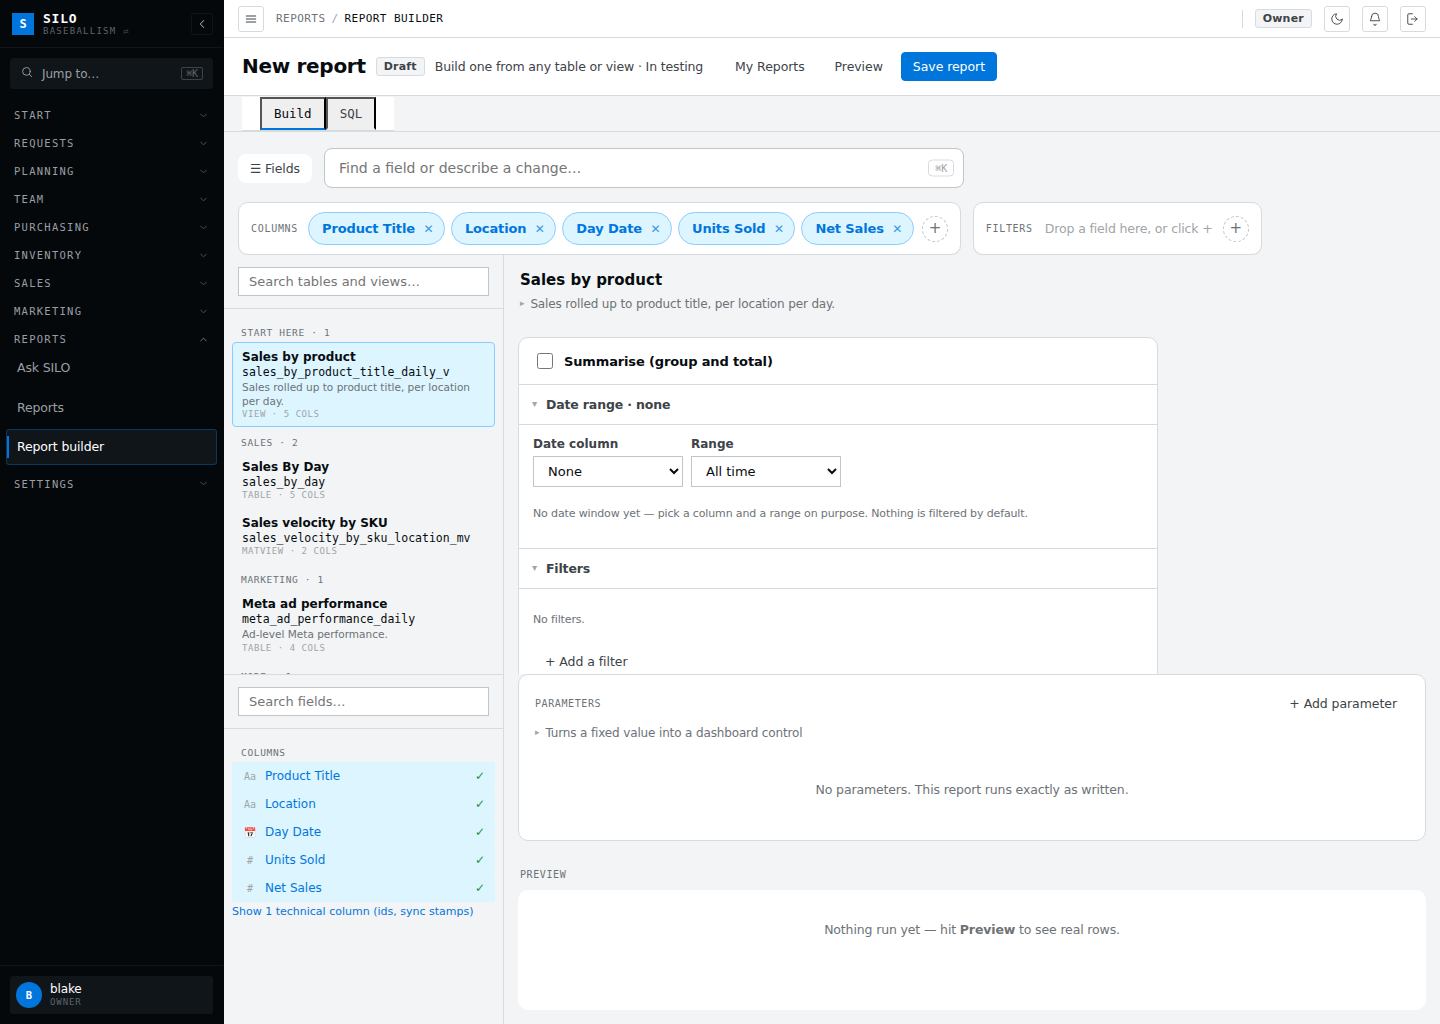
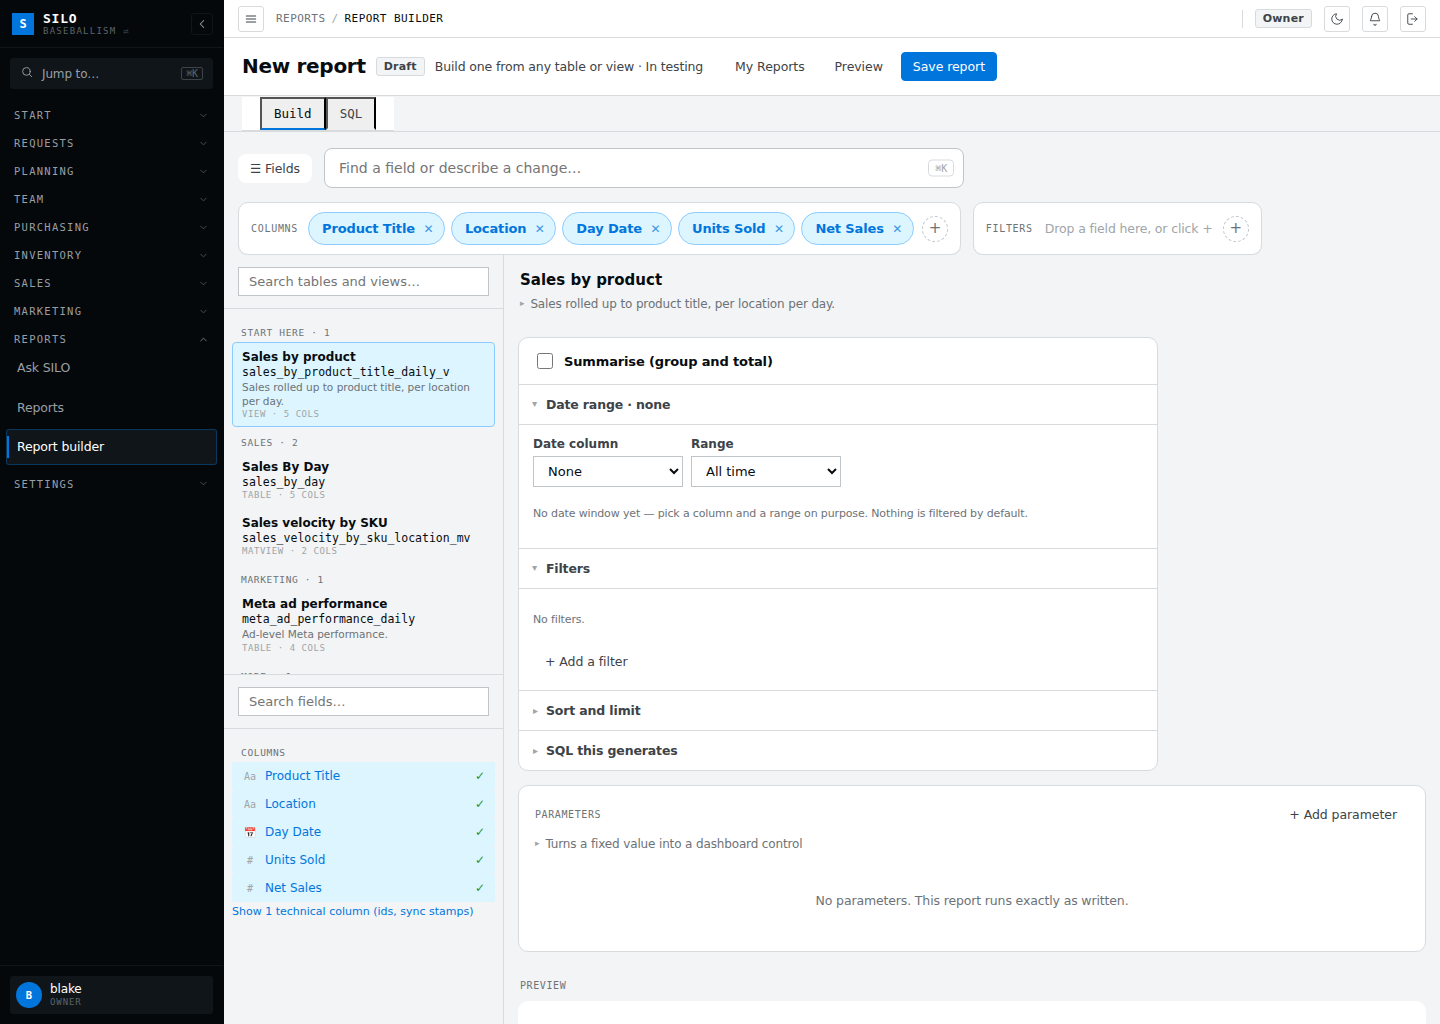
Report builder: fix three real layout bugs found from live screenshot
The user sent back a screenshot of the actual running page (not a mockup)
with a broken-looking area circled: a "+ Add a filter" button floating
with no visible header, a stray cut-off word, then Parameters immediately
below with no transition. Reproduced and confirmed all three causes
against the live page before fixing -- none of this was inferred from the
picture alone.

1. A <details> section never closed once it had ever opened empty.
   renderBuild() tracked "did the user open this" with a 'toggle' event
   listener, but Chromium fires a synthetic 'toggle' the instant a
   freshly-rendered <details open> is inserted -- confirmed with a
   page-level listener that caught two firing on the very first render,
   before any click happened. secDate/secFilters/secMeasures got
   permanently stuck open the first time each was empty, stacking three-
   plus open editors into one very tall panel. Fixed by tracking a real
   click on <summary> instead of the 'toggle' event.

2. .rb-panes lost a flex-shrink fight the moment Preview held a real
   chart+table. It had flex:1 with a 0% basis while .rb-params/.rb-preview
   sized by their own content as ordinary siblings -- confirmed by
   measuring .rb-panes' computed height before/after Preview rendered
   (419px -> 111px, no user action in between). Flexbox's shrink algorithm
   gave the siblings their full height and left .rb-panes a ~110px sliver
   showing one random fragment of whichever editor the leftover scroll
[…]

diff --git a/v3/dashboard.css b/v3/dashboard.css
@@ -442,8 +442,20 @@
   color: var(--bcn-ink-3); padding: 10px 9px 4px;
 }
 
-.rb-main { flex: 1; min-width: 0; display: flex; flex-direction: column; min-height: 0; }
-.rb-panes { flex: 1; min-height: 0; overflow-y: auto; padding: 14px; background: var(--bcn-sunken); display: flex; flex-direction: column; gap: 14px; }
+/* .rb-main owns the ONE scrollbar for everything to its right of the rail
+   -- Build/SQL, the stale bar, Parameters and Preview all flow as one
+   continuous column. It used to split that scroll: .rb-panes had its own
+   flex:1/overflow-y so the chip bar stayed put while Build/SQL scrolled
+   underneath, but that put .rb-panes (flex-basis 0%) in a shrink contest
+   against Params and Preview (both sized by their own content) -- the
+   moment Preview held a real chart+table, flexbox's shrink algorithm
+   handed Preview and Params their full content height and left .rb-panes
+   a ~110px sliver, showing one random cut-off fragment of whichever editor
+   the scroll happened to be sitting on. One scroll owner removes the
+   contest entirely: every section renders at its natural height, in order,
+   and nothing is ever squeezed to near-nothing to make room for a sibling. */
+.rb-main { flex: 1; min-width: 0; display: flex; flex-direction: column; min-height: 0; overflow-y: auto; }
+.rb-panes { padding: 14px; background: var(--bcn-sunken); display: flex; flex-direction: column; gap: 14px; }
 .rb-pane[hidden] { display: none !important; }
 
 .rb-section { display: flex; flex-direction: column; gap: 8px; }
@@ -525,7 +537,11 @@
    settle to their compact resting size (42% was sized for the old always-
    open Build form, which left far less room to hand over). */
 .rb-preview {
-  flex-shrink: 0; max-height: 62%; display: flex; flex-direction: column;
+  /* No percentage cap any more -- .rb-main scrolls as a whole now, so
+     Preview does not need to fit inside a fraction of a fixed-height
+     sibling. It renders at its natural (chart + table) height, same as
+     Build and Params above it. */
+  display: flex; flex-direction: column;
   background: var(--bcn-sunken); padding: 0 14px 14px;
 }
 .rb-preview-head {
@@ -541,7 +557,12 @@
    stacked rather than one continuous preview; spacing (rb-preview-chart's
    own margin-bottom) is what separates them instead. */
 .rb-preview-body {
-  flex: 1; min-height: 120px; overflow: auto; padding: 4px 4px 14px;
+  /* max-height, not flex:1 -- .rb-preview no longer has a bounded height for
+     flex:1 to divide up, so an unbounded table would just grow the whole
+     page to fit every row instead of scrolling in place. A capped height
+     keeps a long result set's own scrollbar without reviving the squeeze
+     .rb-main's single scroll was built to remove. */
+  max-height: 420px; min-height: 120px; overflow: auto; padding: 4px 4px 14px;
   background: var(--bcn-surface); border-radius: 10px;
 }
 .rb-preview-more { display: flex; align-items: center; gap: 10px; padding: 10px 0 2px; }
@@ -1001,6 +1022,24 @@
   .rb-chipbar { padding: 8px 12px; }
   .rb-toolbar { padding: 8px 12px; flex-wrap: wrap; }
   .rb-cmd { max-width: none; order: 1; flex-basis: 100%; }
+
+  /* .rb-rail keeps flex-shrink: 0 at every width (a source list that shrinks
+     to nothing is worse than one that takes its full height) -- on desktop
+     that is a non-issue since .rb-rail sits beside .rb-main in a ROW, but
+     stacked in a COLUMN here, the rail's ~570px (source list + field
+     browser, each capped at 260px) is taller than .rb-layout's own budget
+     at a phone's viewport height. .rb-layout and .rb-main both carry
+     min-height: 0 from the desktop rules specifically so they CAN shrink to
+     fit a fixed-height row layout -- at this breakpoint that lets flexbox
+     crush .rb-main to 0px instead of ever asking its ancestor to scroll:
+     confirmed by measuring it directly (0×0, with every Build control
+     rendered outside its own clipped box and unreachable). Restoring the
+     automatic (content-based) minimum here means .rb-layout can't be
+     squeezed smaller than the rail genuinely needs, so the resulting
+     overflow reaches .silo-main -- which already scrolls the whole page
+     (v2/beacon.css's own overflow-y: auto) -- instead of a zero-height
+     scrollport nothing can ever be scrolled into. */
+  .rb-layout, .rb-main { min-height: auto; }
 }
 
 /* ── Query picker badges ──────────────────────────────────────────────

diff --git a/v3/js/report-builder-ui.js b/v3/js/report-builder-ui.js
@@ -313,12 +313,22 @@
           </div>
         </details>
       </div>`;
-    // toggle does not reliably bubble, so each <details> gets its own
-    // listener rather than one delegated on #buildBody -- there are at
-    // most six of these, so the cost of re-attaching every render is nothing.
+    // A real click on <summary> -- not the 'toggle' event -- is what marks a
+    // section manually opened. Chromium fires a synthetic 'toggle' the
+    // instant a freshly-parsed <details open> is inserted (confirmed via a
+    // page-level listener: picking a source alone fired two of them, one per
+    // <details> rendered open because it started empty). A 'toggle' listener
+    // read that as the user opening it and never let secOpen's emptyCondition
+    // close it again -- secDate, secFilters and secMeasures all got stuck
+    // open forever after their first empty render, stacking into one long,
+    // disorienting panel. A click listener on <summary> only fires on actual
+    // user interaction, and runs before the browser's default action applies
+    // the new open state, so `!d.open` here is reliably the state BEFORE
+    // this click takes effect.
     el('buildBody').querySelectorAll('details.rb-editor[id]').forEach((d) => {
-      d.addEventListener('toggle', () => {
-        if (d.open) secManualOpen.add(d.id); else secManualOpen.delete(d.id);
+      const summary = d.querySelector(':scope > summary');
+      summary?.addEventListener('click', () => {
+        if (!d.open) secManualOpen.add(d.id); else secManualOpen.delete(d.id);
       });
     });
     renderChipBar();

diff --git a/docs/ops/screenshots/report-builder-ux/README.md b/docs/ops/screenshots/report-builder-ux/README.md
@@ -9,7 +9,7 @@ grouped by product title, summed to Net Sales — rendered by the real
 `/v3/report-builder.html` against the test suite's stubbed Supabase. No real
 company data is in any of them; the two rows in the preview are fixture rows.
 
-This went through four passes, each landing after the previous one was
+This went through five passes, each landing after the previous one was
 reviewed and found wanting. Recorded here rather than squashed away, because
 "what did we already try and why wasn't it enough" is exactly the thing a
 screenshot folder should answer a year from now.
@@ -17,17 +17,24 @@ screenshot folder should answer a year from now.
 | File | What it shows |
 |---|---|
 | `before-desktop.png` | origin/main. One always-open form: a raw relname list with no grouping beyond kind, a field cloud with a `text`/`numeric`/`bigint` badge on every row, every measure/filter row always expanded, and — a bug this PR also fixes — a measure row whose `select`s each claimed the full row width and wrapped onto five stacked lines instead of one. Everything flush against hairline borders, no depth, no grouping. Table-only preview. |
-| `after-desktop.png` | The same, configured report, current state (pass 4). A Rows/Values/Filters chip bar reading straight off the config (`Net Sales`, not `Sum of Net Sales` — the aggregation is implicit unless it's non-default); the field-type grid gone in favour of the rail's field browser (icon instead of a badge); Summarise/Totals/Filters/Date/Sort/SQL now live in **one bordered panel** with a divider between each row, rather than as separate floating cards; a segmented Chart/Table control; a chart card above a flat table. The canvas is flat and quiet — a plain gray background, thin borders, one hairline shadow reserved for the chip row and the chart — matching the calmer, less boxy density of the mockups rather than pass 3's stack of individually-shadowed cards. |
+| `after-desktop.png` | The same, configured report, current state (pass 5). A Rows/Values/Filters chip bar reading straight off the config (`Net Sales`, not `Sum of Net Sales` — the aggregation is implicit unless it's non-default); the field-type grid gone in favour of the rail's field browser (icon instead of a badge); Summarise/Date range/Filters/Totals/Sort/SQL now live in **one bordered panel** with a divider between each row, rather than as separate floating cards; a segmented Chart/Table control; a chart card above a flat table. Everything renders in one continuous, natural-height column — see pass 5 below for why that specific property is the point of this screenshot, not just its layout. |
 | `after-desktop-empty.png` | The same source, nothing configured yet. Compact by default: Date range and Filters sit open only because they are genuinely empty (a rolling window or a filter picked "by default" was the exact thing item 5 of the brief called out as misleading), the field browser and chips are the only place a field is added, and the whole build side settles into one short panel instead of one long form or a stack of separate cards. |
 | `after-desktop-sql.png` | The SQL tab. The generated SQL sits in its own wider, flat card (code wants room a chip list does not), with Run query beside it — this is the "collapsible, resizable dock" from item 4, styled to read as one calm surface rather than a plain textarea in a tab pane or a heavily-shadowed box. |
-| `before-phone.png` / `after-phone.png` | 390px. The rail's height cap was sized for a bare source list; adding the field browser without also bounding it independently made rail content spill past its box and overlap the page below it — fixed by giving the source list and the field browser their own scrollports. The after state also shows the chip bar stacking into full-width cards rather than wrapping awkwardly, and the flat single-panel editor group carrying over cleanly to a narrow screen. |
+| `before-phone.png` / `after-phone.png` | 390px. The rail's height cap was sized for a bare source list; adding the field browser without also bounding it independently made rail content spill past its box and overlap the page below it — fixed by giving the source list and the field browser their own scrollports (pass 1–3). Pass 5 fixed a second, more severe mobile bug underneath that one: see below. |
 
 ## What changed each pass, briefly
 
 1. **Pass 1** added the chip bar, field browser, command search, chart-above-table preview, and the friendly/grouped rail — but left the original always-open field-type grid and rule editors in place underneath the chips, so the page still read as the same dense form with a summary bar bolted on top.
 2. **Pass 2** removed the field-type grid (the rail's field browser replaced it), collapsed Totals/Filters/Date/Sort/SQL behind `<details>`, and dropped the "Sum of" verbosity from chip text — the right structural change, but styled with the same flush hairline borders and dashed boxes as the rest of beacon's dense form chrome, so it still read as unpolished.
 3. **Pass 3** was a visual pass on top of pass 2's structure: floating cards with real shadows and radius instead of bordered strips, a proper segmented Chart/Table control instead of a text-link toggle, hover states that are actually visible against a white card, reorder arrows that only render once there is something to reorder, and the removal of a status banner that had nothing to do with the new layout. Feedback after this pass: still reads as "horrible spacing," not smooth, not close enough to the mockup layout — pass 3 had over-corrected by giving nearly every section (rail, each of five editors individually, table, chart, params) its own floating white card with a heavy two-layer shadow, which reads as busier and boxier than either mockup.
-4. **Pass 4** (current) reverses that: `.rb-card` drops back to a border + radius with no shadow by default (a `.rb-card--lift` variant exists for the rare case that still wants one); the rail goes back to a flat panel with a plain right border, no card, no white background; Summarise, Date range, Filters, Totals, Sort and the generated-SQL disclosure are consolidated into **one** `.rb-editor-group` panel with internal dividers instead of five separate shadowed boxes; only the chip row and the chart card keep a hairline shadow (`var(--bcn-shadow)`, beacon's own token, not the two-layer mix); the results table is fully flat (no border, no shadow) so it reads as part of the canvas rather than another floating box. The result matches the mockups' calmer, border-led separation instead of stacking many individually-elevated cards.
+4. **Pass 4** reverses that: `.rb-card` drops back to a border + radius with no shadow by default (a `.rb-card--lift` variant exists for the rare case that still wants one); the rail goes back to a flat panel with a plain right border, no card, no white background; Summarise, Date range, Filters, Totals, Sort and the generated-SQL disclosure are consolidated into **one** `.rb-editor-group` panel with internal dividers instead of five separate shadowed boxes; only the chip row and the chart card keep a hairline shadow (`var(--bcn-shadow)`, beacon's own token, not the two-layer mix); the results table is fully flat (no border, no shadow) so it reads as part of the canvas rather than another floating box.
+5. **Pass 5** (current) is not a visual pass — the user sent back a screenshot of the real page (not a mockup) with a genuinely broken area circled: a "+ Add a filter" button floating alone with no visible header above it, a stray cut-off word, then the Parameters card immediately below with no transition. That screenshot exposed two real bugs pass 4's own screenshots had not caught (both reproduced and confirmed against the live page before being called bugs, not inferred from the picture alone):
+   - **A `<details>` element never closes once it has ever opened empty.** `renderBuild()` tracked "did the user open this section" with a `toggle` event listener, but Chromium fires a synthetic `toggle` the instant a freshly-rendered `<details open>` is inserted into the DOM — confirmed by attaching a page-level listener and watching two fire on the very first render, before any click happened. That synthetic event was read as "the user opened this," so `secDate`, `secFilters` and `secMeasures` got permanently stuck open the first time each was empty, even after they were filled in — stacking three-plus open editors into one very tall panel. Fixed by tracking a real `click` on `<summary>` instead, which only fires on actual user interaction.
+   - **`.rb-panes` lost a flex-shrink fight the moment Preview held a real chart+table.** `.rb-panes` (Build/SQL) had `flex: 1` with a `0%` basis, while `.rb-params` and `.rb-preview` were sized by their own content as ordinary siblings in the same flex column. The moment Preview had a real result to draw, flexbox's shrink algorithm gave Params and Preview their full content height and left `.rb-panes` a ~110px sliver — showing one random, uncontextualized fragment of whichever editor the leftover scroll position happened to land on. Confirmed by measuring `.rb-panes`' computed height directly before and after Preview rendered real rows (419px → 111px, no user action in between). Fixed by making `.rb-main` the single scroll owner for the whole right-hand column — Build, Params and Preview all render at their natural height in one continuous flow, and nothing is ever squeezed to make room for a sibling. A capped `max-height` was added to the results table (`.rb-preview-body`) so a very large result set still gets its own internal scrollbar rather than stretching the whole page.
+   
+   Fixing the second bug surfaced a **third**, pre-existing bug specific to the phone layout, silent until then: at the 860px breakpoint the rail (source list + field browser) is taller than the entire viewport budget, and `.rb-main` — which had always computed to a genuine 0×0 box there, on `main` itself, independent of anything above — used to leave that overflow visible (so content still rendered, just spilling past its own box onto whatever came after it in the page). Once `.rb-main` gained real overflow handling as part of the fix above, that same 0-height box started **clipping** its content instead of merely mis-positioning it, which made every Build control on a phone genuinely unreachable (confirmed: the automated phone screenshot script, which had run clean on every prior pass, started timing out trying to click the Summarise checkbox — intercepted by the rail's own overflow sitting in the same screen position). Fixed by letting `.rb-layout`/`.rb-main` take their natural content height at that breakpoint instead of being forced to fit the viewport, so the overflow reaches `.silo-main`'s own pre-existing page scroll (`v2/beacon.css`) instead of a zero-height scrollport nothing could ever be scrolled into.
+   
+   All three were confirmed by direct measurement against the live page (computed heights, a page-level `toggle` listener, before/after diffs) before being treated as bugs, and all three are covered by the existing 37-suite regression run, which stayed green throughout.
 
 ## Regenerating
 
